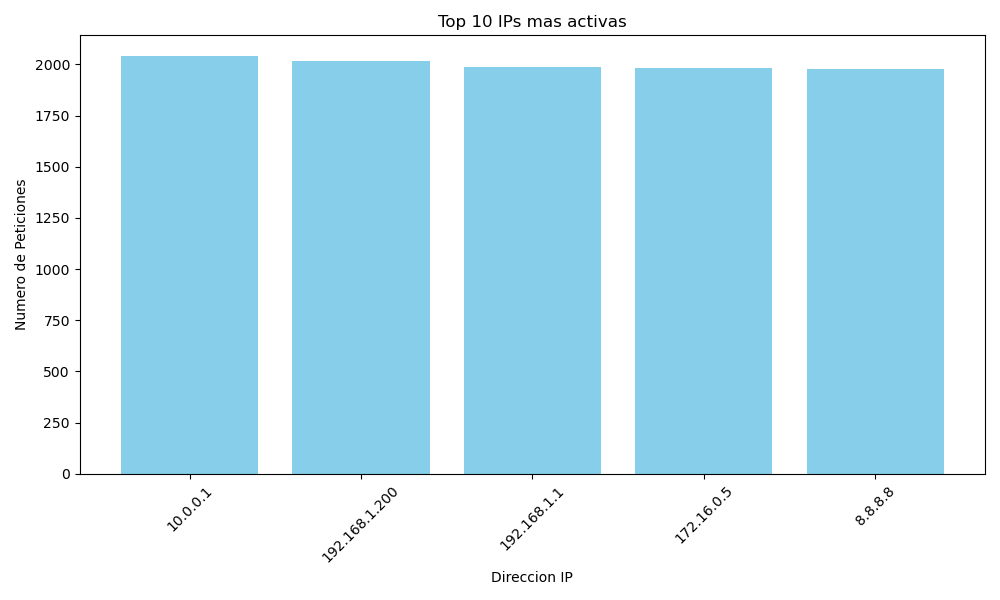
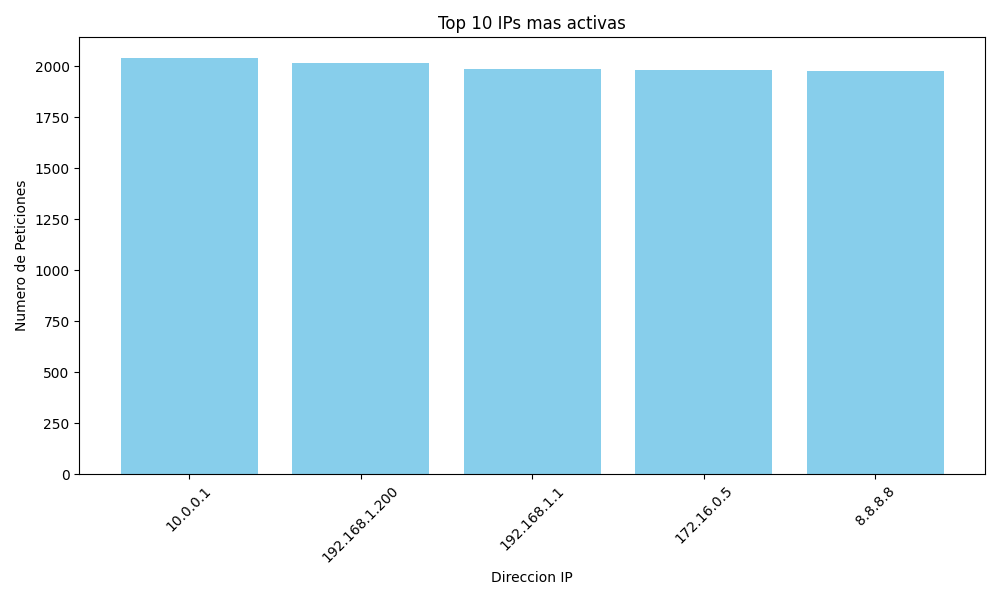
feat: añadido dashboard interactivo con plotly y refactorización de reportes

diff --git a/main.py b/main.py
@@ -3,6 +3,9 @@ import re
 from collections import Counter
 from datetime import datetime
 import matplotlib.pyplot as plt
+# [NUEVO] Importaciones para Plotly (Fase 2B)
+import plotly.graph_objects as go
+from plotly.subplots import make_subplots
 
 LOG_PATTERN = r'^(\S+) - - \[(.*?)\] "(.*?)" (\d+) (\d+)$'
 
@@ -18,31 +21,27 @@ def format_bytes(size):
 
 
 def generate_charts(ip_counter, status_counter, hour_counter):
+    """Genera reportes estaticos (PNG) con Matplotlib (Fase 2A)"""
     print("--- Generando reportes visuales (PNG)... ---")
 
     # 1. Grafico de Barras: Top 10 IPs
-    # Preparamos los datos: Separamos las IPs (eje X) de los conteos (eje Y)
     top_ips = ip_counter.most_common(10)
     x_values = [ip for ip, count in top_ips]
     y_values = [count for ip, count in top_ips]
 
-    # Creamos la figura
-    plt.figure(figsize=(10, 6))  # Tamano en pulgadas (ancho, alto)
-    plt.bar(x_values, y_values, color='skyblue')  # Tipo de grafico: Barra
+    plt.figure(figsize=(10, 6))
+    plt.bar(x_values, y_values, color='skyblue')
     plt.title('Top 10 IPs mas activas')
     plt.xlabel('Direccion IP')
     plt.ylabel('Numero de Peticiones')
-    # Rotamos las etiquetas del eje X para que se lean bien
     plt.xticks(rotation=45)
-    plt.tight_layout()  # Ajuste automatico para que no se corten textos
+    plt.tight_layout()
 
-    # Guardamos en disco
     plt.savefig('reporte_ips.png')
-    plt.close()  # Importante: Cerrar la figura para liberar memoria
+    plt.close()
     print("-> Generado: reporte_ips.png")
 
-    # 2. Grafico de Torta (Pie Chart): Codigos de Estado
-    # Filtramos para mostrar solo los importantes (si hay muchos codigos raros, el grafico se ve mal)
+    # 2. Grafico de Torta: Codigos de Estado
     labels = list(status_counter.keys())
     sizes = list(status_counter.values())
 
@@ -55,10 +54,59 @@ def generate_charts(ip_counter, status_counter, hour_counter):
     print("-> Generado: reporte_status.png")
 
 
+def generate_html_report(hour_counter, status_counter):
+    """Genera Dashboard interactivo (HTML) con Plotly (Fase 2B)"""
+    print("--- Generando dashboard interactivo (HTML)... ---")
+
+    # 1. Preparacion de datos
+    # Ordenamos las horas (00, 01... 23)
+    hours_sorted = sorted(hour_counter.items())
+    x_hours = [h for h, count in hours_sorted]
+    y_requests = [count for h, count in hours_sorted]
+
+    labels_status = list(status_counter.keys())
+    values_status = list(status_counter.values())
+
+    # 2. Creacion del Lienzo (Subplots)
+    fig = make_subplots(
+        rows=1, cols=2,
+        subplot_titles=("Trafico por Hora (24h)", "Distribucion de Errores"),
+        specs=[[{"type": "xy"}, {"type": "domain"}]]
+    )
+
+    # 3. Añadir Trazas
+    # Trace 1: Barras temporales
+    fig.add_trace(
+        go.Bar(x=x_hours, y=y_requests,
+               name="Peticiones", marker_color='indigo'),
+        row=1, col=1
+    )
+
+    # Trace 2: Donut Chart de Status
+    fig.add_trace(
+        go.Pie(labels=labels_status, values=values_status,
+               name="Status", hole=.4),
+        row=1, col=2
+    )
+
+    # 4. Estetica Global
+    fig.update_layout(
+        title_text="Dashboard de Analisis de Logs - Servidor Principal",
+        template="plotly_dark",
+        showlegend=True
+    )
+
+    # 5. Guardar
+    fig.write_html("dashboard.html")
+    print("-> Generado: dashboard.html (Abrelo en tu navegador)")
+
+
 def process_log_file(file_path):
     print(f"--- Iniciando analisis de: {file_path} ---\n")
     total_requests = 0
     total_bytes = 0
+
+    # Contadores
     ip_counter = Counter()
     status_counter = Counter()
     method_counter = Counter()
@@ -66,7 +114,6 @@ def process_log_file(file_path):
     hour_counter = Counter()
 
     try:
-
         with open(file_path, 'r', encoding='utf-8') as f:
             for line in f:
                 line = line.strip()
@@ -81,44 +128,41 @@ def process_log_file(file_path):
                     status = match.group(4)
                     size_str = match.group(5)
 
+                    # Separar Metodo y Ruta
                     if len(request_str.split()) == 3:
                         method, path, protocol = request_str.split()
                     else:
                         method, path = ("UNKNOWN", "UNKNOWN")
 
+                    # Extraer Hora
                     try:
                         current_hour = timestamp_str.split(':')[1]
                     except IndexError:
                         current_hour = "00"
 
+                    # Agregacion
                     total_requests += 1
                     ip_counter[ip] += 1
-
                     status_counter[status] += 1
                     total_bytes += int(size_str)
                     method_counter[method] += 1
                     path_counter[path] += 1
                     hour_counter[current_hour] += 1
-                else:
-                    continue
 
         if total_requests == 0:
+            print("Archivo vacio.")
             return
+
+        # --- SECCION DE REPORTES ---
+        # 1. Reporte ASCII (Texto)
         print(f"Procesadas {total_requests} lineas.")
-
-        generate_charts(ip_counter, status_counter, hour_counter)
-
         avg_size = total_bytes / total_requests
-
-        print(f"Total de peticiones  : {total_requests}")
         print(f"Trafico total        : {format_bytes(total_bytes)}")
         print(f"Tamano promedio      : {format_bytes(avg_size)}")
 
         print("\n--- Top 5 IPs ---")
-
         for ip, count in ip_counter.most_common(5):
             percentage = (count / total_requests) * 100
-
             print(f"{ip:<15} : {count} peticiones ({percentage:.1f}%)")
 
         print("\n--- Top Rutas Visitadas ---")
@@ -129,42 +173,35 @@ def process_log_file(file_path):
         for method, count in method_counter.most_common():
             print(f"{method:<10} : {count}")
 
-        print("\n--- Horas Pico de Trafico ---")
-        # Ordenamos por hora (00, 01, 02...) no por cantidad
+        print("\n--- Horas Pico de Trafico (ASCII) ---")
         print(f"{'Hora':<5} | {'Peticiones':<10} | {'Barra Visual'}")
         print("-" * 40)
         for hour, count in sorted(hour_counter.items()):
-            # Generamos una pequeña barra visual con asteriscos
-            # Escalamos: 1 asterisco por cada 50 peticiones aprox (para que quepa en pantalla)
             bar = "*" * (count // 50)
             print(f"{hour:<5} | {count:<10} | {bar}")
 
         print("\n--- Distribucion de Codigos de Estado ---")
-
         for status, count in sorted(status_counter.items()):
             percentage = (count / total_requests) * 100
-
             print(f"Status {status}     : {count:<5} ({percentage:.1f}%)")
 
+        # 2. Generar Graficos (Fase 2)
+        generate_charts(ip_counter, status_counter, hour_counter)  # Matplotlib
+        # Plotly [NUEVO]
+        generate_html_report(hour_counter, status_counter)
+
     except FileNotFoundError:
-
         print(f"Error: El archivo '{file_path}' no existe.")
-
     except ValueError:
-
         print("Error: Se encontro un dato no numerico donde se esperaba un numero.")
-
     except Exception as e:
         print(f"Ocurrio un error inesperado: {e}")
 
 
 if __name__ == "__main__":
-
     if len(sys.argv) != 2:
         print("Uso correcto: python3 main.py <ruta_del_log>")
-
         sys.exit(1)
 
     log_file = sys.argv[1]
-
     process_log_file(log_file)
